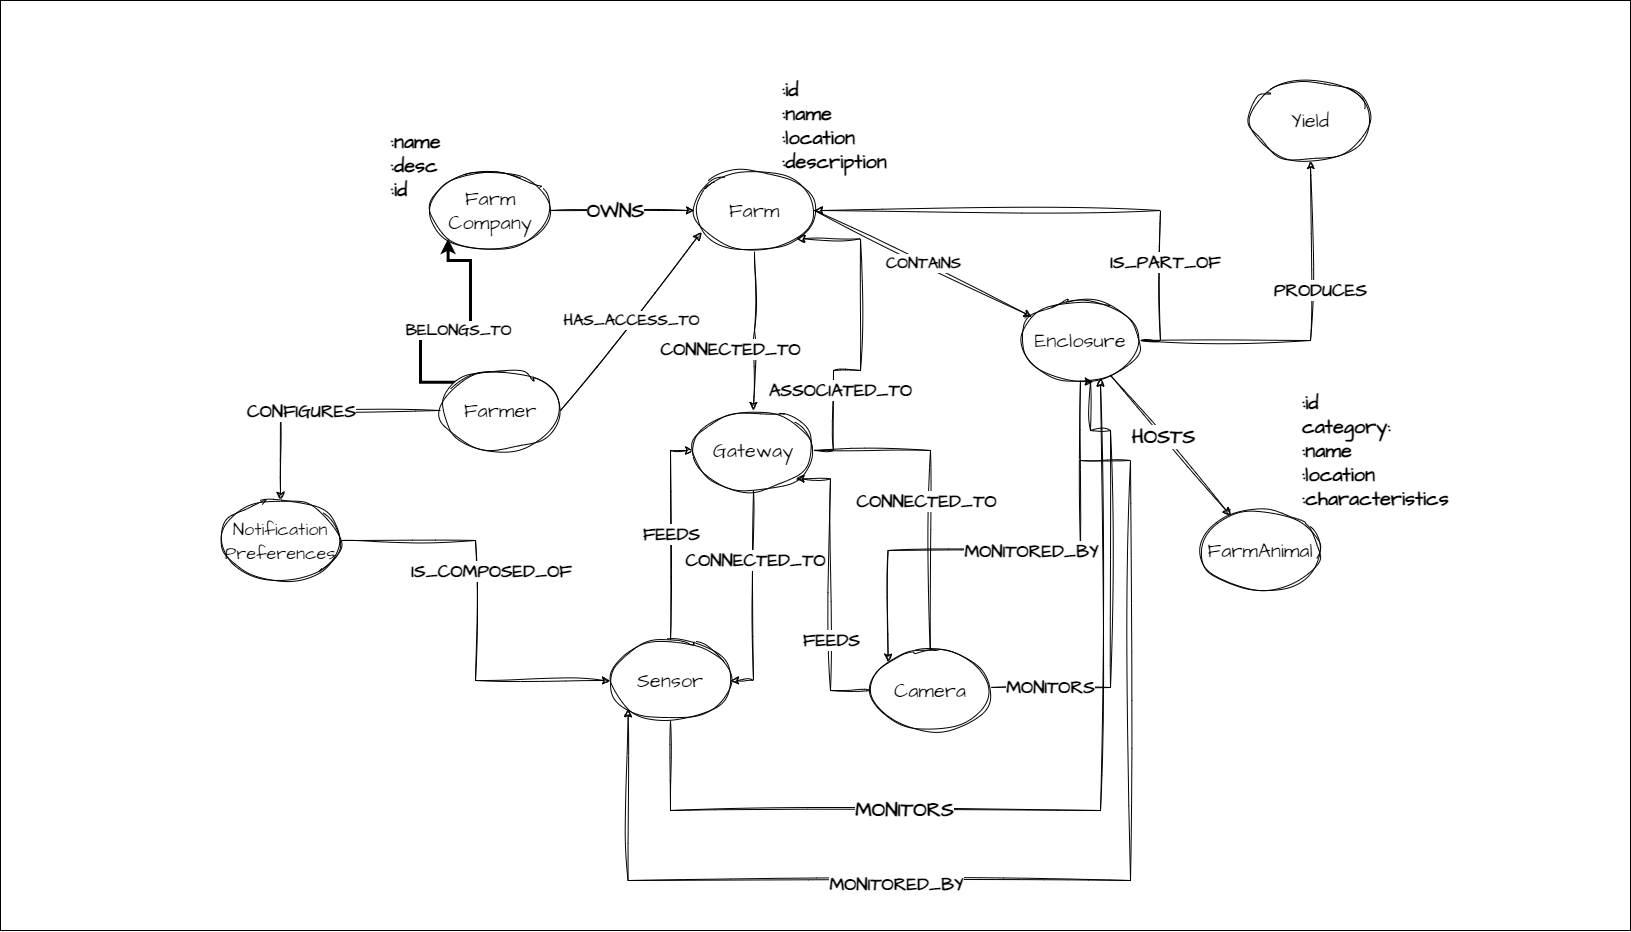
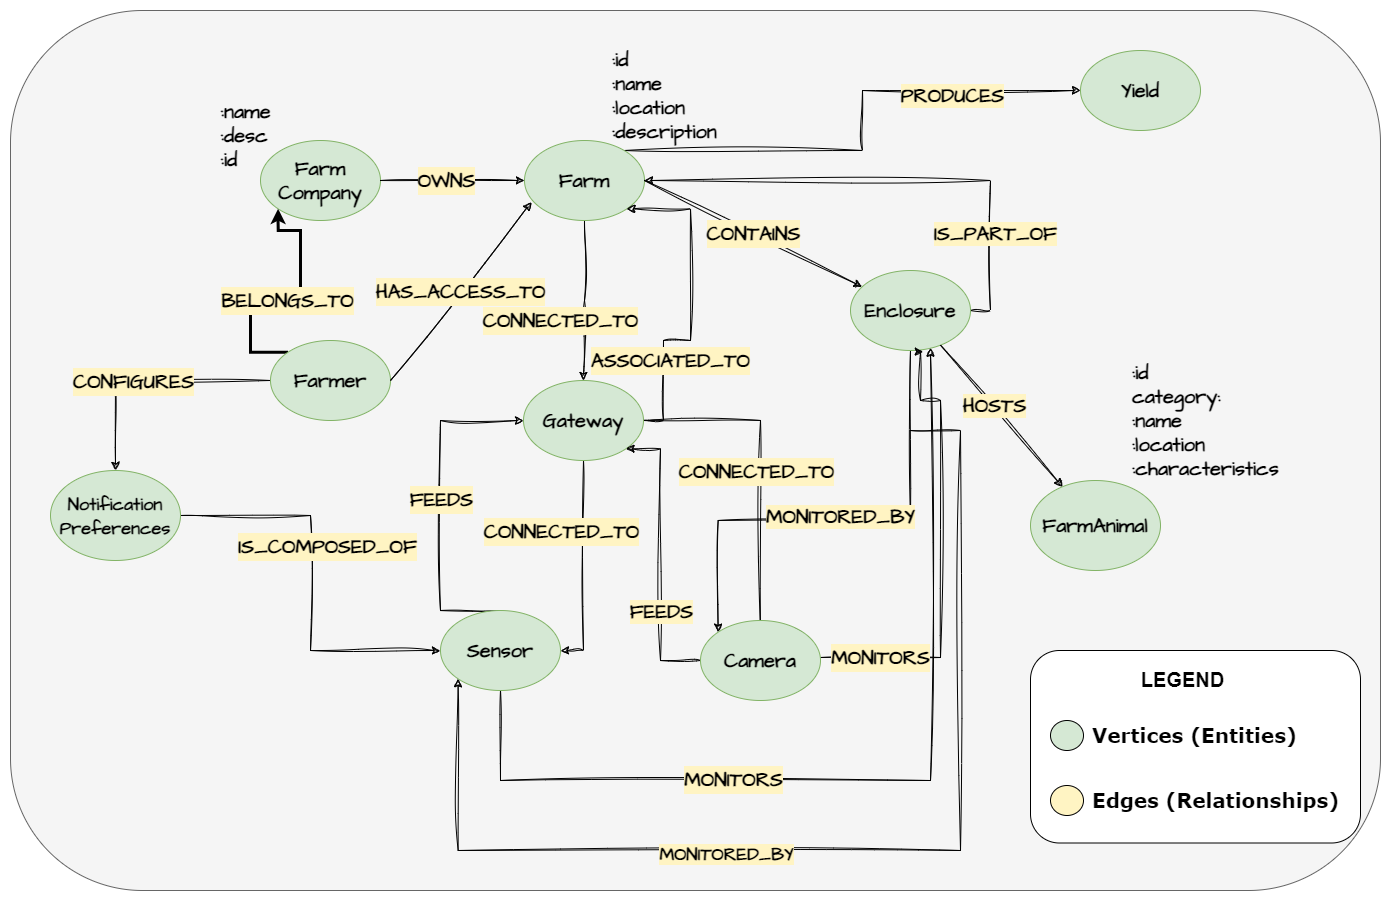
Updated graph entity model.

diff --git a/README.md b/README.md
@@ -692,7 +692,7 @@ These microservices work together to provide a scalable and modular architecture
 | TR-08      | Camera, Gateway, IoT hub, (Regional) Telemetry Ingestion Service, Data Lake, Advanced Analytics Service | When the snapshot capture feature is activated on the farm cameras, they periodically send fish images to the gateway. The frequency of these snapshots is adjustable. Upon receipt, the gateway forwards these images as telemetry data to the cloud. The telemetry ingestion service processes this data, storing the images in a global blob storage (Data Lake), and saving a reference in the time series database. The advanced analytics service can then classify the fish type based on identified characteristics.|
 | TR-09      | API Gateway, Insights API, Model Service, (Regional) Telemetry Ingestion services, Advanced analytics service, (Regional) Weather data Ingestion services | Authenticate and authorize the user. Validate the input, refer the digital twin to obtain metadata about the locations of all farms accessible to the current user. Use this information to determine the appropriate regional telemetry ingestion service for fetching telemetry data and alert information. Refer to the advanced analytics service for ML insights such as yield and etc, and the regional weather data ingestion service for weather information and predictions.|
 | TR-10      | API Gateway, Configuration API, Model Service | Authenticate and authorize the user, then validate the input. Configure high and low limit thresholds for alerts, and dead band range for various sensors in the digital twin.|
-| TR-11      | API Gateway, Configuration API, Model Service| Yield is a property assigned to each enclosure and farm entity within the digital twin (graph database). Farmers can input this data via the web application. |
+| TR-11      | API Gateway, Configuration API, Model Service| Yield is a property assigned to a farm entity within the digital twin (graph database). Farmers can input this data via the web application. |
 | TR-12      | Model Service, Advanced Analytics Service, Insights API | Harvest (Yield) data from the digital twin is transferred to the data lake through change feed or change data capture events. The advanced analytics service uses this data, along with sensor readings (temperature, salinity, pH, dissolved oxygen, ammonia content, external weather conditions), to train a model via supervised learning. Once trained, the model is deployed and made accessible for inference through the insights API.|
 | TR-13      | API Gateway, Insights API, Model Service, (Regional) Telemetry Ingestion services, Advanced analytics service, (Regional) Weather data Ingestion services | Authenticate and authorize the user. Validate the input, refer the digital twin to obtain metadata about the locations of all farms accessible to the current user. Use this information to determine the appropriate regional telemetry ingestion service for fetching telemetry data and alert information. Refer to the advanced analytics service for ML insights such as yield and etc, and the regional weather data ingestion service for weather information and predictions.|
 | TR-14 | Sensors, Gateway, IoT hub, (Regional) Telemetry Ingestion services| Farm-installed gateways continuously poll sensor data from each enclosure. This data is sent as telemetry to the IoT hub at regular intervals (e.g., every 5 minutes). The telemetry ingestion service then processes this data. |
